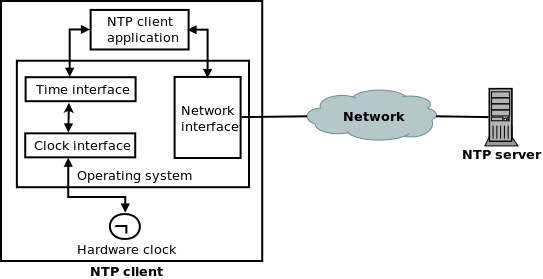
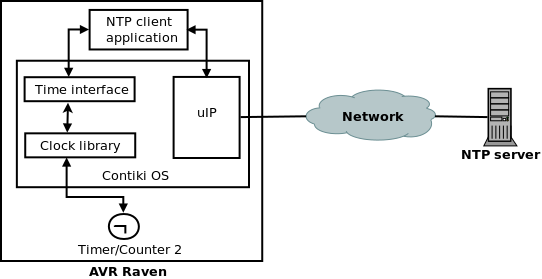
analysis

diff --git a/implementation.tex b/implementation.tex
@@ -38,8 +38,8 @@ As 32-bit signed long type shall be able to express values from -$2^{31}$-1 (-2~
 to $2^{31}$-1 (2~147~483~647)~\cite{c99},
 such representation will therefore never wrap around.
 
-It should be noted that signed long data type does not have to always result in a 32-bit variable -
-it is up to compiler what data width it chooses for each data type.
+It should be noted that the signed long data type does not have to always result in a 32-bit variable -
+it is up to the compiler what data width it chooses for each data type.
 But as ISO C99 standard states, the maximum value for an object of type signed long
 shall be greater or equal $2^{31}$-1 (2~147~483~647)~\cite{c99}.
 This in fact results in at least 32-bit variable unless the compilation setting is changed.
@@ -55,16 +55,17 @@ the NTP client application code has to be changed in the future~\cite{ntp-y2k}.
 \section{Setting the time}
 Setting the time is only possible within one second precision -
 finer time setting must be made using the time adjustments.
-Implemented {\it{clock\_set\_time}} function computes when the system started
-in seconds since the Epoch and saves the result in the newly implemented {\it{boottime}} variable.
+The newly implemented {\it{clock\_set\_time}} function computes when the system started
+in seconds since the POSIX Epoch and saves the result in the newly implemented {\it{boottime}} variable.
 
+%% CHECK KROEGER
 Not only no variables incremented every interrupt nor any internal clock registers
-are affected, but also already presented variable {\it{seconds}} is not modified.
-Modifying this variable would lead to misbehaviour of stimer library
+are affected, but also the already presented variable {\it{seconds}} is not modified.
+Modifying this variable would lead to misbehaviour of the stimer library
 described in section~\ref{sec:contiki-timers}.
 
 Thanks to this newly implemented {\it{clock\_set\_time}} function and {\it{boottime}} variable,
-running Contiki system is able to tell uptime, current time and time when was the system booted.
+the running Contiki system is able to tell uptime, current time and time when the system was booted.
 \begin{lstlisting}
 volatile unsigned long boottime;
 
@@ -75,12 +76,12 @@ clock_set_time(unsigned long sec)
 }
 \end{lstlisting}
 
-%%%
+
 \section{Getting the time}
 Getting the correct current real time is only possible if it was set using
 the {\it{clock\_set\_time}} function before.
-Newly implemented function {\it{clock\_get\_time}} is then able to tell the
-current time in seconds since the Epoch by simply adding {\it{boottime}},
+The newly implemented function {\it{clock\_get\_time}} is then able to tell the
+current time in seconds since the POSIX Epoch by simply adding {\it{boottime}}
 and {\it{seconds}}.
 
 Nanoseconds part is filled in by reading the {\it{scount}} variable and the counter register {\it{OCR2A}}.
@@ -117,7 +118,7 @@ clock_get_time(struct time_spec *ts)
 Because {\it{1000000000}} and {\it{CLOCK\_SECOND}} are both constants, the compiler is able to
 calculate the result of division during compile time.
 Furthermore as both numbers are integers, the result is integer as well~\cite{c99}.
-The most of the CPU time is therefore spent on multiplication where the variables
+Most of the CPU time is therefore spent on multiplication where the variables
 {\it{counter}} and {\it{tmp\_scount}} are involved.
 E.g. if the code is compiled using GCC version 4.3.5,
 multiplication of two 32-bit variables takes 33 instructions including {\it{call}} and {\it{ret}}
@@ -127,7 +128,7 @@ According to AVR Instruction Set manual~\cite{avr-instruction-set},
 such a multiplication results in 48 clock cycles overhead,
 which takes 6~000 nanoseconds assuming 8~MHz CPU clock.
 The timestamp provided is therefore not exact.
-However, since the consumed time strongly depends on architecture and compiler specifications,
+However, since the consumed time strongly depends on the architecture and compiler specifications,
 no correction was implemented to remove this inaccuracy.
 The application must be instead aware that the timestamp is not exactly accurate.
 

diff --git a/analysis/hwclock.tex b/analysis/hwclock.tex
@@ -1,27 +1,10 @@
 %=========================================================================
 % (c) 2011, 2012 Josef Lusticky
 
-\section{Clock subsystem}\label{sec:analysis-clock}
-Contiki provides a basic clock interface particularly for use of timers
-with a simple goal - measuring time.
-This interface is common for all supported platforms,
-but the particular implementation is platform specific.
-The definition of the common interface is located in the {\it{core/sys/clock.h}} file
-and the specific implementations can be found in the {\it{clock.c}} file
-in {\it{cpu/}} directory of the Contiki source code.
-
-The clock interface provides the {\it{clock\_init}} call for initialising the hardware clock,
-that is automatically called during the boot sequence of Contiki.
-The {\it{clock\_init}} call sets up
-appropriate registers and the interrupt service routine as described in section~\ref{sec:analysis-clock}.
-This call is implemented as the C macro for AVR CPUs, that evaluates to a specific setup code for each
-different AVR CPU during the compilation, and is defined in the {\it{cpu/avr/dev/clock-avr.h}} file.
-The setup code is not common to all AVR CPUs because of differences among them - e.g. there are usually
-only three Timer/Counter modules, but AVR ATmega1284P has four Timer/Counter modules~\cite{avr-datasheet}.
-
-On AVR Raven, 8 bit Timer/Counter~2 clocked from asynchronous 32~768~Hz crystal oscillator
-is used by default by Contiki clock interface.
-This oscillator is independent of any other clock,
+\section{Hardware clock}\label{sec:analysis-hwclock}
+On AVR Raven, Contiki uses the 8 bit Timer/Counter~2,
+clocked from asynchronous 32~768~Hz crystal oscillator, as the hardware clock by default.
+The oscillator is independent of any other clock,
 can be only used with Timer/Counter~2 and it
 enables use of Timer/Counter~2 as a Real Time Counter~\cite{avr-datasheet}.
 The Timer/Counter~2 prescale value 8 is used in Contiki on AVR Raven platform -
@@ -64,25 +47,12 @@ This behaviour is illustrated in figure~\ref{fig:design-timing-diagram}
 \end{figure}
 
 Additionally, when compare match occurs,
-an interrupt is raised and the interrupt service routine {\it{AVR\_OUTPUT\_COMPARE\_INT}},
-defined in {\it{cpu/avr/dev/clock.c}} file, is executed.
+an interrupt is raised and the interrupt service routine is executed.
 The flag indicating occurred match {\it{OCF2A}} is
 cleared automatically by hardware when executing
 the interrupt service routine in this case~\cite{avr-datasheet}.
 
-To obtain {\it{CLOCK\_SECOND}} interrupts per second, there must be
-${\frac{f_{T2}}{CLOCK\_SECOND}}$ hardware clock ticks between two successive interrupts.
-On compare match in CTC mode, the timer is reset to zero as
-shown in figure~\ref{fig:design-timing-diagram}.
-The value zero is also included in the counting - the 0th count of the timer also takes one tick.
-Therefore the value of compare register {\it{OCR2A}} must be ${\frac{f_{T2}}{CLOCK\_SECOND}} - 1$
-when using Timer/Counter~2 in CTC mode.
-The default value of {\it{CLOCK\_SECOND}} for AVR Raven in Contiki is 128,
-which implies the default value of the compare register ${\frac{4096}{128}} - 1 = 31$.
-The {\it{CLOCK\_SECOND}} value is defined in {\it{platform/avr-raven/contiki-conf.h}} file
-and the default value of the compare register is computed during the compilation.
-
-The interrupt service routine can be further used for updating the value in {\it{OCR2A}} compare register.
+The interrupt service routine can be further used for updating the value in the {\it{OCR2A}} compare register.
 This can be used for adjusting the time, because decrementing the compare register
 value causes a faster increment of the {\it{scount}} variable, which in turn causes
 a faster increment of the {\it{seconds}} variable and vice versa.

diff --git a/implementation/network.tex b/implementation/network.tex
@@ -2,40 +2,40 @@
 % (c) 2011, 2012 Josef Lusticky
 
 \section{Network communication}
-% 1 - see design/network.tex
-Communication over IEEE~802.15.4 link layer uses a 6LoWPAN adaptation layer.
-Thanks to this layer, AVR Raven running Contiki OS is connected to the IPv6 Internet.
 The client and the developed interface uses no IP version specific code,
-therefore a communication over IPv4 should be also possible, though not tested.
+therefore a communication over IPv4 should be also possible.
+This was due to a missing solution for
+communicating over IPv4 on IEEE~802.15.4 link layer not tested though.
 
 The packet loss problem was described in section~\ref{sec:design-network}.
 However, packet loss is not a matter for NTP if using either broadcast or unicast mode.
-In broadcast mode, lost server packet causes no setting or adjusting time of client's
+In broadcast mode, a lost server packet causes no setting or adjusting time of client's
 local clock.
 The client simply waits without disruption for next NTP broadcast message.
-If client needs to figure out it's local clock offset at the moment,
-it can simply query a server using NTP unicast mode.
+If the client needs to figure out it's local clock offset at the moment,
+it can simply query a server using the NTP unicast mode.
 % 2
-Upon sending the packet, the NTP client process yields
+Upon sending the packet, the NTP client process sets the event timer and yields
 using the {\it{PROCESS\_YIELD}} statement, so no active waiting
 causes blocking the whole system.
+The, the process receives an event in response to either an incoming NTP packet
+or the etimer expiration.
+If any other running application wants the NTP client to query the server,
+it can send the {\it{PROCESS\_EVENT\_MSG}} event to the NTP process.
+However, no event is sent to that application when the server's response arrives.
 
-The remote NTP server can be specified in Makefile or
-using the {\it{REMOTE\_HOST}} define macro.
-If no remote host is specified,
-NTP client assumes only NTP broadcast communication mode will be used.
+The remote NTP server can be specified in the Makefile or
+by using the {\it{REMOTE\_HOST}} define macro.
+If no remote host is specified, the NTP client assumes that only the NTP broadcast communication mode will be used.
 The broadcast mode is intended particularly for energy or memory constrained clients
 or for a huge number of NTP clients and a single NTP server
 in a network with small propagation delay.
-Should there be more devices running Contiki present in one network,
-each of them needs a different link layer address.
-This address can be configured in Makefile as well.
-Beware that although the firmware for RZ~USB Stick automatically translates
-between Ethernet link layer addresses and IEEE~802.15.4 link layer
-addresses, both are are still different links and can not be mixed in one
-layer~2 network (e.g. bridging will not work).
+The link layer MAC address and the NTP poll exponent $\tau$
+can be configured in the Makefile as well.
 
-Dynamic increasing or decreasing the client's poll interval in response to
-Kiss-o'-Death packets, described in section~\ref{sec:ntp-network}, is not implemented.
-The configuration instead assumes, that an exhausted NTP server rather drops the incoming
-client's packet than sending the response with KoD code.
+
+%design
+%Dynamic increasing or decreasing the client's poll interval in response to
+%Kiss-o'-Death packets, described in section~\ref{sec:ntp-network}, is not implemented.
+%The configuration instead assumes, that an exhausted NTP server rather drops the incoming
+%client's packet than sending the response with KoD code.

diff --git a/analysis.tex b/analysis.tex
@@ -2,11 +2,29 @@
 % (c) 2011, 2012 Josef Lusticky
 
 \chapter{Analysis}
+For keeping, measuring and resolving the time, computer needs a hardware clock.
+A computer clock is an electronic device with a counter register counting oscillations in a
+quartz crystal oscillator with a particular frequency~\cite{thesis-sync}.
+Using the hardware clock, the operating system can keep and manipulate the system time.
+
+Accessing the hardware clock is done through the operating system clock interface.
+On top of the clock interface is an interface for providing the system time.
 For implementation of a reasonably useful NTP client,
-an operating system must be able to set, get and eventually adjust the system time.
+the operating system must be able to set, get and eventually adjust the system time
+through the time interface.
 Though not mandatory, adjusting the time is an important function,
 if the time shall be always a monotonically increasing function.
-Apart from that, ability to communicate over UDP is also required.
+
+Apart from that, an ability to communicate over UDP is also required for the NTP client.
+This is a task of the operating system network interface.
+Figure~\ref{fig:analysis-overview} shows the overview of the NTP client.
+
+\begin{figure}
+  \centering
+  \includegraphics[width=13cm,keepaspectratio]{fig/analysis.png}
+  \caption{NTP client overview} %!TODO
+  \label{fig:analysis-overview} %!TODO
+\end{figure}
 
 For developing and testing Contiki NTP Client,
 the AVR Raven platform with 8-bit ATmega1284P CPU~\cite{avr-datasheet} will be used.
@@ -14,13 +32,18 @@ This platform features IEEE~802.15.4 (Low-Rate Wireless Personal Area Networks) 
 Together with an adaptation layer called 6LoWPAN (IPv6 over Low power Wireless Personal Area Networks),
 AVR Raven is able to communicate over IPv6.
 
+\input{analysis/hwclock.tex}
+
+\input{analysis/clock-interface.tex}
+
 \input{analysis/time.tex}
 
-\input{analysis/clock.tex}
 
+\section{NTP client application}
+Apart from the time interface, the NTP client application needs to use the operating system network interface.
+Thanks to uIP, the network communication is not a matter for Contiki OS.
 
-\section{Communication}
-Without any NTP server is an NTP client useless. % There are clients, servers...
+The NTP client needs server associations in the NTP unicast communication mode.
 However, too many server associations complicate the client design.
 In fact, in the most common scenario, there can be only a single NTP master server
 for the whole network.
@@ -53,11 +76,11 @@ and the decision must be made during the compilation~\cite{contiki-docs}.
 Although the {\it{UIP\_CONF\_IPV6}} macro can be used to determine which IP version
 support is being compiled, the NTP client application can be written IP-version agnostic.
 
-
-\section{Timestamp conversions}%CLIENT CODE
+The NTP client further calculates the local clock offset using the NTP timestamps
+as described in section~\ref{sec:ntp-algorithms}.
 As mentioned in section~\ref{sec:ntp-time}, the NTP timescale is not
 coincident with the POSIX timescale.
-If the new call interface should use the standard POSIX timescale,
+If the new calls in the time interface should use the standard POSIX timescale,
 conversion between NTP and POSIX timestamps must be calculated.
 The conversion from the POSIX timestamp to the 64-bit long NTP timestamp
 is needed when the client sends the request

diff --git a/analysis/clock-interface.tex b/analysis/clock-interface.tex
@@ -1,0 +1,34 @@
+%=========================================================================
+% (c) 2011, 2012 Josef Lusticky
+
+\section{Clock interface}
+Contiki provides a basic clock interface particularly for use of timers
+with a simple goal - measuring time.
+This interface is common for all supported platforms,
+but the particular implementation is platform specific.
+The definition of the common interface is located in the {\it{core/sys/clock.h}} file
+and the specific implementations can be found in the {\it{clock.c}} file
+in {\it{cpu/}} directory of the Contiki source code.
+
+The clock interface provides the {\it{clock\_init}} call for initialising the hardware clock,
+that is automatically called during the boot sequence of Contiki.
+The {\it{clock\_init}} call sets up
+appropriate registers and the interrupt service routine as described in section~\ref{sec:analysis-hwclock}.
+This call is implemented as the C macro for AVR CPUs, that evaluates to a specific setup code for each
+different AVR CPU during the compilation, and is defined in the {\it{cpu/avr/dev/clock-avr.h}} file.
+The setup code is not common to all AVR CPUs because of differences among them - e.g. there are usually
+only three Timer/Counter modules, but AVR ATmega1284P has four Timer/Counter modules~\cite{avr-datasheet}.
+
+To obtain {\it{CLOCK\_SECOND}} interrupts per second, there must be
+${\frac{f_{T2}}{CLOCK\_SECOND}}$ hardware clock ticks between two successive interrupts.
+On compare match in CTC mode, the timer is reset to zero as
+shown in figure~\ref{fig:design-timing-diagram}.
+The value zero is also included in the counting - the 0th count of the timer also takes one tick.
+Therefore the value of compare register {\it{OCR2A}} must be ${\frac{f_{T2}}{CLOCK\_SECOND}} - 1$
+when using Timer/Counter~2 in CTC mode.
+The default value of {\it{CLOCK\_SECOND}} for AVR Raven in Contiki is 128,
+which implies the default value of the compare register ${\frac{4096}{128}} - 1 = 31$.
+The {\it{CLOCK\_SECOND}} value is defined in {\it{platform/avr-raven/contiki-conf.h}} file
+and the default value of the compare register is computed during the compilation.
+
+%{\it{AVR\_OUTPUT\_COMPARE\_INT}}, defined in {\it{cpu/avr/dev/clock.c}} file,

diff --git a/analysis/time.tex b/analysis/time.tex
@@ -2,17 +2,6 @@
 % (c) 2011, 2012 Josef Lusticky
 
 \section{Time interface}\label{sec:analysis-time}
-For keeping, measuring and resolving the time, computer needs a clock.
-A computer clock is an electronic device with a counter register counting oscillations in a
-quartz crystal oscillator with a particular frequency~\cite{thesis-sync}.
-The structure of the clock hardware is shown in figure~\ref{fig:system-hardware-clock}.
-\begin{figure}
-  \centering
-  \includegraphics[width=9cm,keepaspectratio]{fig/pc-clock.png}
-  \caption{A typical hardware clock (source:~\cite{thesis-beat})}
-  \label{fig:system-hardware-clock}
-\end{figure}
-When the counter reaches a specific value, an interrupt is generated and the counter register is reset.
 The clock interrupt is called {\it{clock tick}}, or {\it{timer tick}}, and at each clock tick,
 the interrupt service routine increments a system clock value stored in the memory~\cite{thesis-sync}.
 In a typical computer clock design, interrupts are produced at

diff --git a/design/interface.tex b/design/interface.tex
@@ -1,7 +1,7 @@
 %=========================================================================
 % (c) 2011, 2012 Josef Lusticky
 
-\section{Operating system time interface}\label{sec:analysis-interface}
+\section{Contiki time interface}\label{sec:analysis-interface}
 Section~\ref{sec:analysis-time} described, that there is no proper
 way of setting, getting and adjusting the time for NTP client in Contiki OS.
 A new interface for setting, getting and eventually adjusting the time
@@ -66,7 +66,7 @@ This will effectively cause the leap second correction to be applied too late,
 which is a trade-off for smaller memory requirements.
 
 %Implemented {\it{clock\_set\_time}} function computes when the system started
-%in seconds since the Epoch and saves the result in newly implemented {\it{boottime}} variable.
+%in seconds since the POSIX Epoch and saves the result in the newly implemented {\it{boottime}} variable.
 
 %Unlike GIT!
 %This variable, counting uptime in seconds,

diff --git a/cd/docs/setup.tex b/cd/docs/setup.tex
@@ -132,6 +132,13 @@ Ethernet packets to 802.15.4 packets and vice versa.
 The firmware is distributed together with Contiki and
 can found in {\it{/platform/avr-ravenusb/}} directory.
 
+Should there be more devices running Contiki present in one network,
+each of them needs a different link layer (MAC) address.
+Beware that although the firmware for RZ~USB Stick automatically translates
+between Ethernet link layer addresses and IEEE~802.15.4 link layer
+addresses, both are are still different links and can not be mixed in one
+layer~2 network (e.g. bridging will not work).
+
 So as first, we need to flash the RZ USB stick to work as an Ethernet interface.
 There is no widely available 802.15.4 and 6LoWPAN stack for PCs.
 As a temporary solution and to be able to interconnect IPv6 hosts such as AVR Raven to IP networks,

diff --git a/design.tex b/design.tex
@@ -6,7 +6,7 @@ Previous chapter showed, that just an implementation of an
 NTP client application is due to missing calls in the time interface not sufficient.
 The time interface must be extended with new calls,
 that must be further implemented in the clock interface.
-Figure~\ref{fig:design-overview} shows the NTP client overview.
+Figure~\ref{fig:design-overview} shows the overview of the NTP client running on AVR Raven.
 
 \begin{figure}[H]
   \centering
@@ -19,7 +19,7 @@ Figure~\ref{fig:design-overview} shows the NTP client overview.
 
 \input{design/clock.tex}
 
-\input{design/network.tex}
+%\input{design/network.tex}
 
 
 %\input{design/client.tex}
